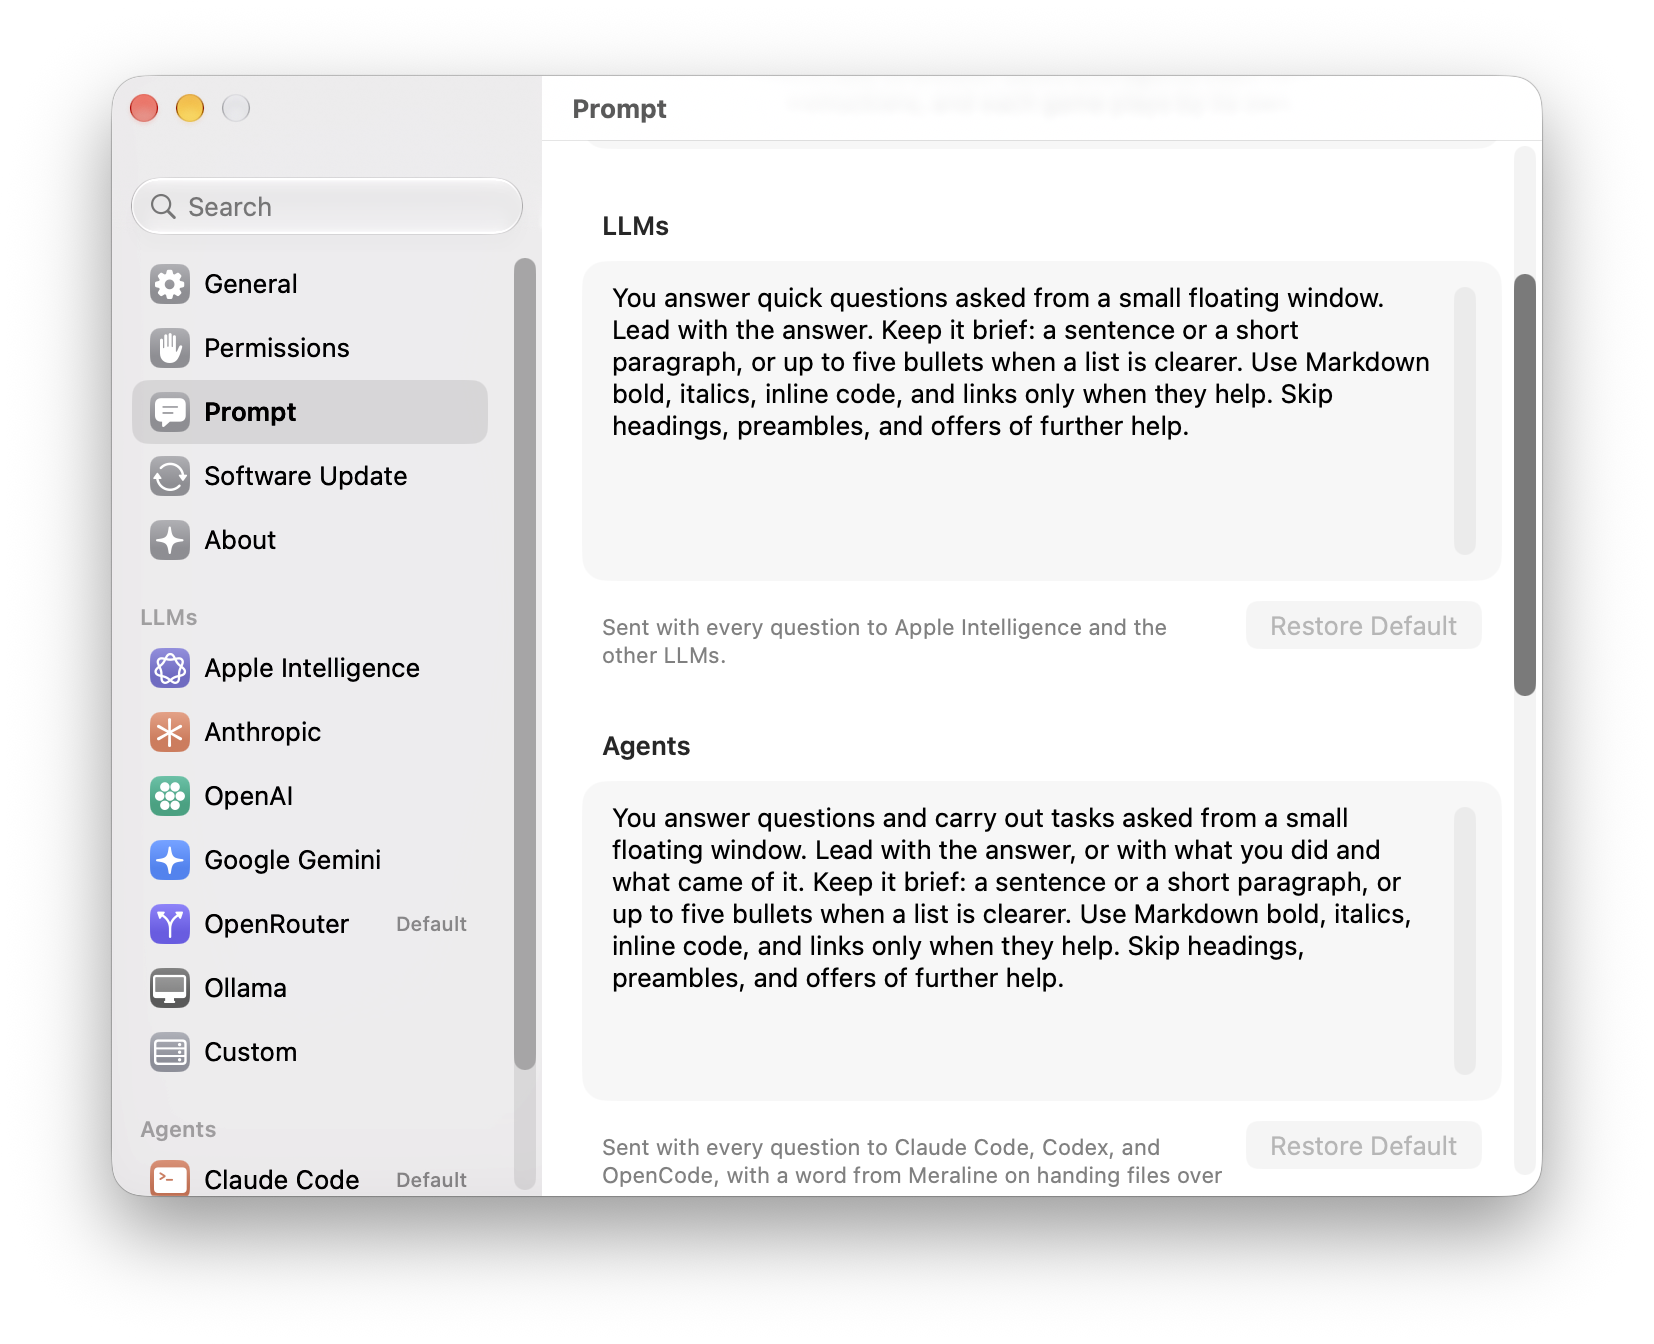
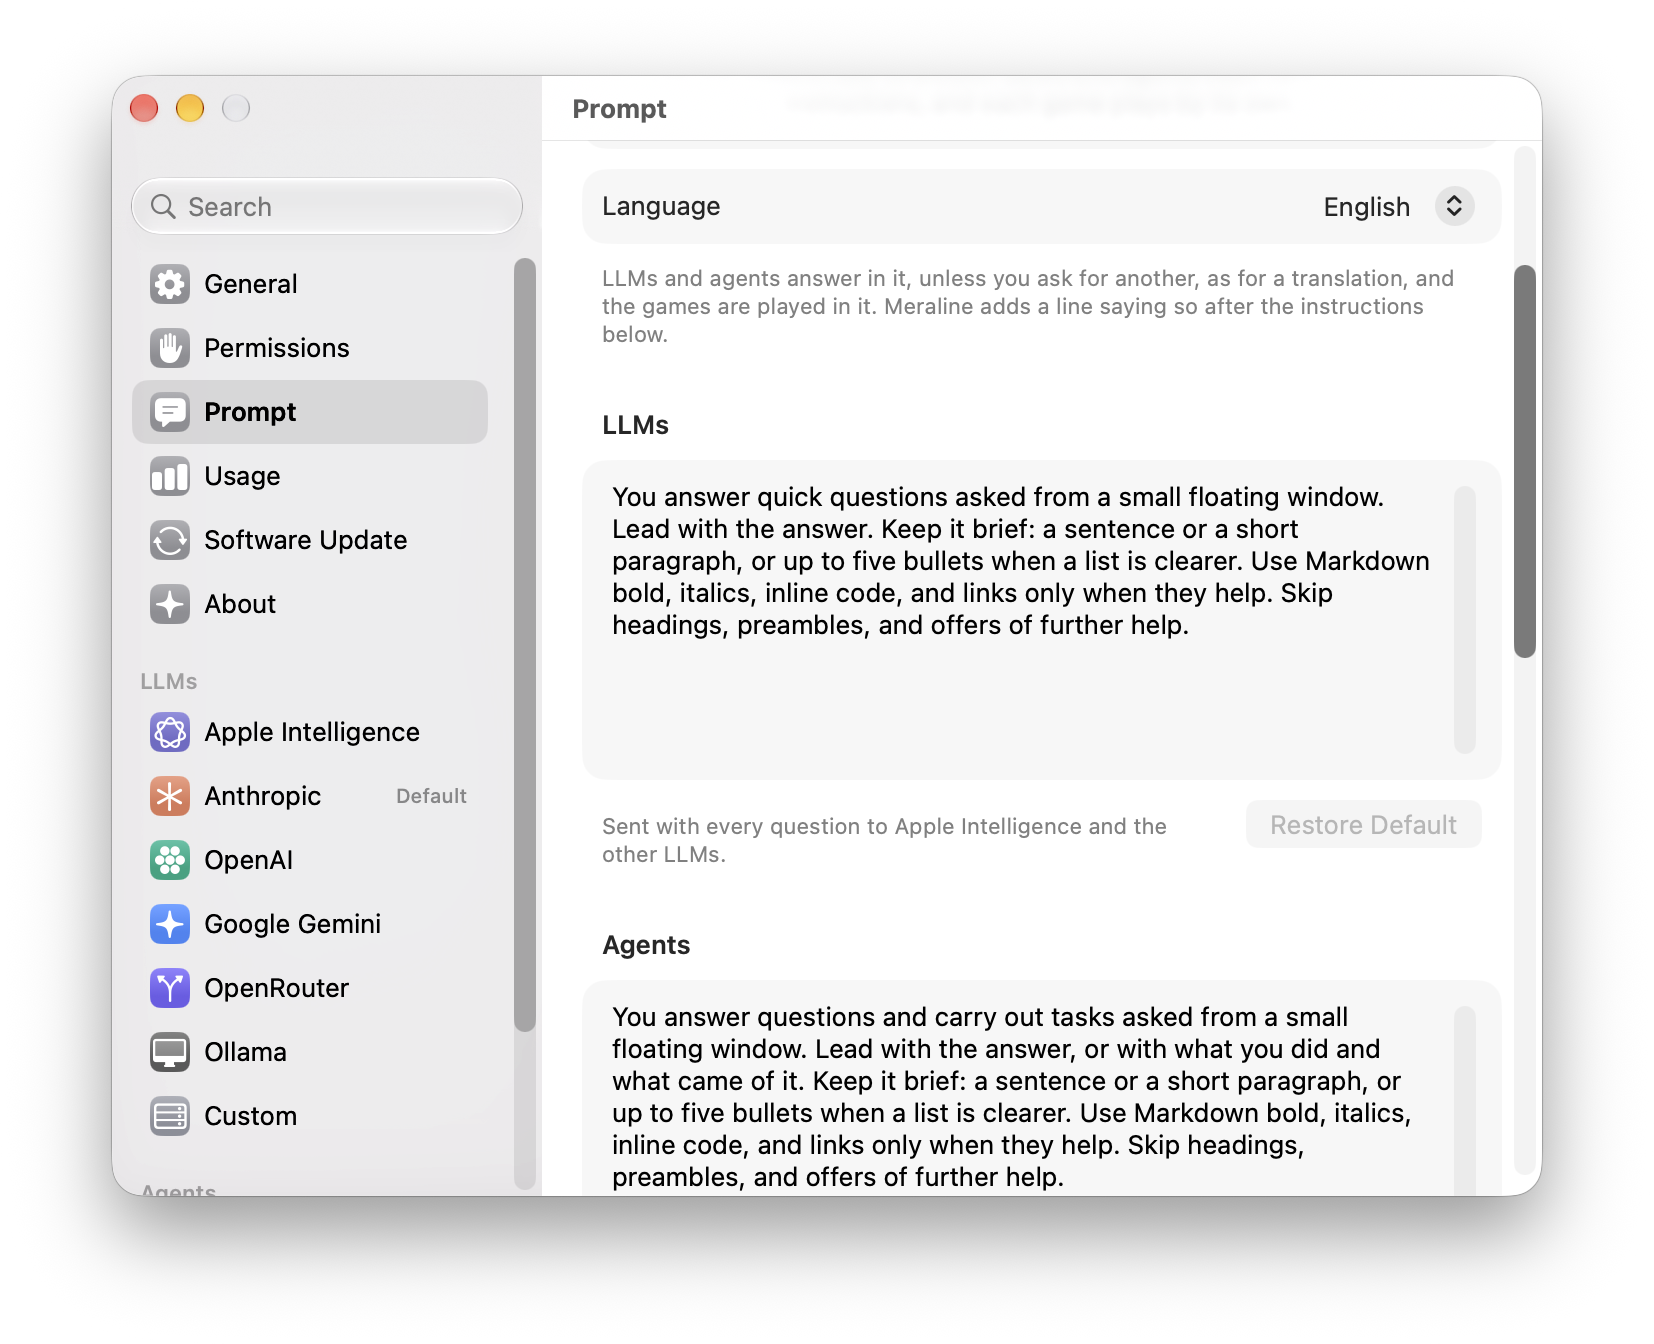
Screenshots of Longest Word, a game's first move, Usage, and Prompt
Taken with scripts/showcase.sh, in dark and light: opening, Rhyme Duel's
card with Random Rhyme while it waits for the first move; longest-word,
the nine letters in glass bubbles after the model picked its word;
usage and usage-games, Settings › Usage over 30 made-up days and its
Longest Word section; and prompt and prompt-games, retaken with Language
at the top. The old prompt.png and prompt-games.png were light pictures;
these are dark. The README shows the Longest Word, opening, and Usage
pictures in its table, and says what usage.json holds.

diff --git a/README.md b/README.md
@@ -105,6 +105,24 @@ There are no chat lists to manage, no saved history, and no projects. Nothing is
     <td align="center"><sub>The clock keeps your recent chats, to reopen or clear</sub></td>
   </tr>
   <tr>
+    <td align="center">
+      <picture>
+        <source media="(prefers-color-scheme: dark)" srcset="docs/screenshots/longest-word.png">
+        <img src="docs/screenshots/longest-word-light.png" width="440" alt="Longest Word: nine letters in glass bubbles with a shuffle button, while the model's word stays hidden until you play yours">
+      </picture>
+    </td>
+    <td align="center">
+      <picture>
+        <source media="(prefers-color-scheme: dark)" srcset="docs/screenshots/opening.png">
+        <img src="docs/screenshots/opening-light.png" width="440" alt="Rhyme Duel waiting for its first move: a card that explains the duel, with a Random Rhyme button to let the model open">
+      </picture>
+    </td>
+  </tr>
+  <tr>
+    <td align="center"><sub>Longest Word: your Mac deals the letters and checks both words</sub></td>
+    <td align="center"><sub>Make the first move, or leave it to the model</sub></td>
+  </tr>
+  <tr>
     <td align="center" colspan="2">
       <picture>
         <source media="(prefers-color-scheme: dark)" srcset="docs/screenshots/actions.png">
@@ -145,7 +163,13 @@ There are no chat lists to manage, no saved history, and no projects. Nothing is
     <td align="center"><sub>Every permission in one place, with what it's for</sub></td>
   </tr>
   <tr>
-    <td align="center" colspan="2">
+    <td align="center">
+      <picture>
+        <source media="(prefers-color-scheme: dark)" srcset="docs/screenshots/usage.png">
+        <img src="docs/screenshots/usage-light.png" width="440" alt="Settings › Usage over the last 30 days: questions, answers, tokens in and out, cost, and rounds, with a chart of tokens by day">
+      </picture>
+    </td>
+    <td align="center">
       <picture>
         <source media="(prefers-color-scheme: dark)" srcset="docs/screenshots/settings.png">
         <img src="docs/screenshots/settings-light.png" width="440" alt="Settings on the Claude Code page: model, reasoning effort, web search, MCP servers turned on, and the list of MCP servers with a toggle each">
@@ -153,7 +177,8 @@ There are no chat lists to manage, no saved history, and no projects. Nothing is
     </td>
   </tr>
   <tr>
-    <td align="center" colspan="2"><sub>Settings look like System Settings; each agent lists its MCP servers with a switch for each</sub></td>
+    <td align="center"><sub>Settings › Usage counts what you asked, played, and spent, numbers only</sub></td>
+    <td align="center"><sub>Settings look like System Settings; each agent lists its MCP servers with a switch for each</sub></td>
   </tr>
 </table>
 
@@ -207,7 +232,7 @@ That's it. Press <kbd>⌥</kbd> <kbd>Space</kbd> whenever you have a question.
 Meraline is built so you don't have to take its word for any of this.
 
 - **No account and no server in between.** Questions go straight from your Mac to the provider you chose. Meraline has no backend, no analytics, and no crash reporting. The only other connections are a once-a-day update check against `github.com`, which you can turn off in Settings, and the pictures in a release's notes, fetched from GitHub when you open What's New. Watch the traffic with any network monitor and you'll see nothing else.
-- **Nothing on disk.** Conversations and games live in memory and are gone when you quit. The preferences file (`defaults read com.meldiron.meraline`) holds settings only: shortcut, window placement, which providers are on, and the prompts you changed.
+- **Nothing on disk.** Conversations and games live in memory and are gone when you quit. The preferences file (`defaults read com.meldiron.meraline`) holds settings only: shortcut, window placement, which providers are on, and the prompts you changed. The one other file, `~/Library/Application Support/Meraline/usage.json`, holds the counts Settings › Usage shows: how many questions, answers, tokens, and games in each five-minute slot, by provider, model, and game. Open it and you'll find numbers and names of models and games, never a word of what was asked or answered; Clear Usage Data deletes it.
 - **Chats last 30 minutes.** Each chat is deleted from memory, with the folder its agent worked in, 30 minutes after its last message, in the window or in Recent Chats. The capsule under the window's bottom right counts down, turning pink in the last 5 minutes; click it to give the chat 30 minutes again. Start a new chat (<kbd>⌘</kbd> <kbd>N</kbd> or <kbd>Esc</kbd>) and the last one goes to Recent Chats with the time it has left, which reopening it doesn't change, or is forgotten if it was anonymous.
 - **Keys in the Keychain.** API keys are stored as Keychain items under the service `com.meldiron.meraline.api-keys`, where Keychain Access can show and delete them. They never appear in preferences, logs, or diagnostics.
 - **Command-line agents stay in charge of their own sign-in.** Meraline runs the unmodified `claude`, `codex`, and `opencode` commands with session persistence off. It never reads or copies their tokens. The MCP servers set up in an agent are available to it here too, as the agent reports them; **Settings › Agents** lists them and lets you turn any of them off for Meraline alone, without touching the agent's own configuration. Each chat gives its agent a scratch folder in the temporary directory, holding only copies of the files and folders you attach, never your originals, and what the agent writes there. It is removed when the chat's time runs out, the chat is forgotten, or Meraline quits, and it takes in at most 20,000 files and folders. A file the agent hands you stays in that folder until you copy or save it, and it's marked as downloaded before it leaves for another app, so macOS checks any app or program in it before it first runs. **Open** never runs anything: scripts open as text, and apps are only shown in Finder. When Claude Code wants to write there, or has a question of its own, Meraline shows it and waits for you; **Why?** has it say in one line why it wants to.
